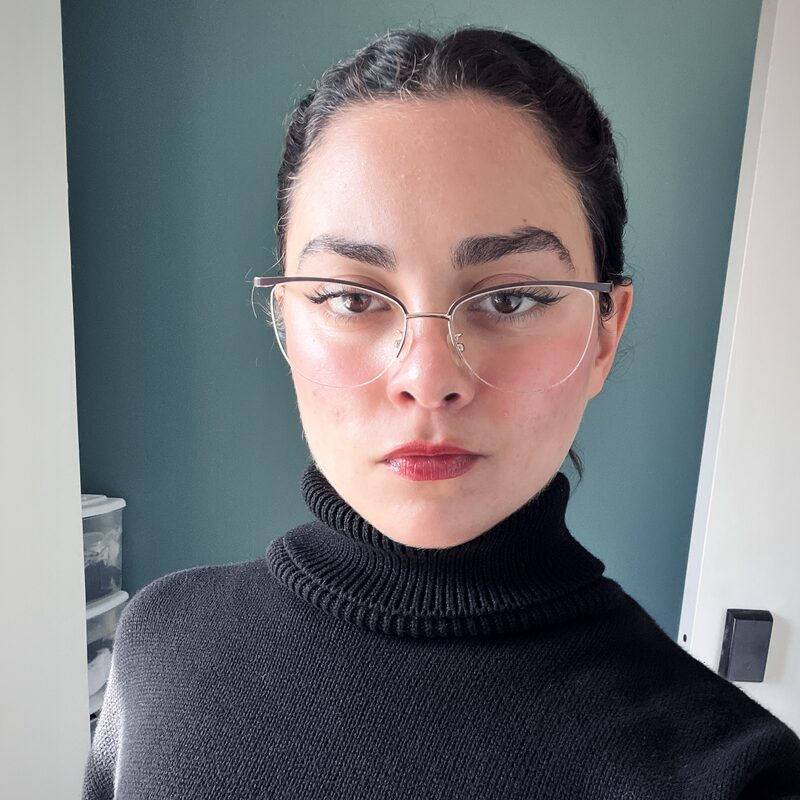
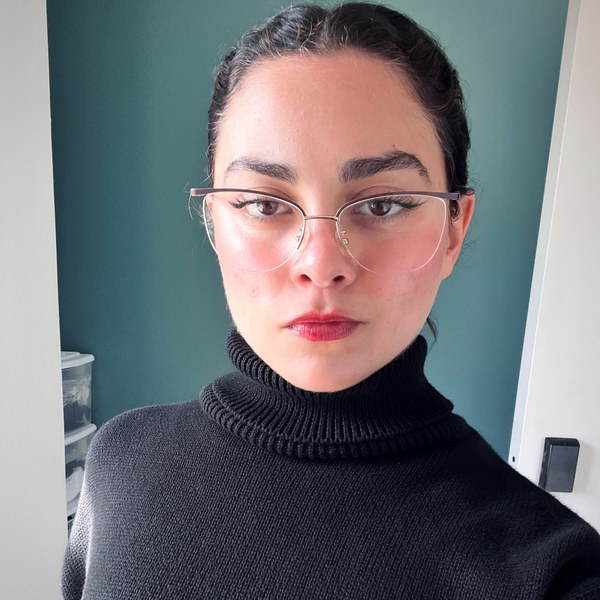
Team: add Nehir, Giovanni and Rose; update Tina's title and photo
Current officers first, then former officers.

Claude-Session: https://claude.ai/code/session_01Yao5ARWiRXxrscf2joiVWF

diff --git a/src/content/team.js b/src/content/team.js
@@ -6,10 +6,14 @@
 //              reference it here; leave null for the placeholder avatar
 //   linkedin : profile URL, or null to hide the link
 import aidenFox from '../assets/team/aiden-fox.jpg';
+import giovanniSuarez from '../assets/team/giovanni-suarez.jpg';
+import nehirKeskin from '../assets/team/nehir-keskin.jpg';
 import peterMaiConnolly from '../assets/team/peter-mai-connolly.jpg';
+import roseSifuentes from '../assets/team/rose-sifuentes.jpg';
 import sandraAlHames from '../assets/team/sandra-al-hames.jpg';
 import tinaHabibi from '../assets/team/tina-habibi.jpg';
 
+// Current officers first, then former officers.
 const team = [
   {
     name: 'Sandra Al Hames',
@@ -18,16 +22,22 @@ const team = [
     linkedin: 'https://www.linkedin.com/in/sandra-al-hames/',
   },
   {
+    name: 'Nehir Keskin',
+    role: 'Vice President',
+    photo: nehirKeskin,
+    linkedin: 'https://www.linkedin.com/in/nehirkeskin/',
+  },
+  {
+    name: 'Tina Habibi',
+    role: 'Qompute 2026 Co-Organizer',
+    photo: tinaHabibi,
+    linkedin: 'https://www.linkedin.com/in/tina-habibi/',
+  },
+  {
     name: 'Aiden Fox',
     role: 'E-Board Member',
     photo: aidenFox,
     linkedin: 'https://www.linkedin.com/in/aidenfox',
-  },
-  {
-    name: 'Tina Habibi',
-    role: 'E-Board Member',
-    photo: tinaHabibi,
-    linkedin: 'https://www.linkedin.com/in/tina-habibi',
   },
   {
     name: 'Peter Mai Connolly',
@@ -37,6 +47,18 @@ const team = [
   },
   {
     name: null, role: 'E-Board Member', photo: null, linkedin: null,
+  },
+  {
+    name: 'Giovanni Suarez',
+    role: 'Former Vice President',
+    photo: giovanniSuarez,
+    linkedin: 'https://www.linkedin.com/in/gio-suarez-usc/',
+  },
+  {
+    name: 'Rose Sifuentes',
+    role: 'Former Secretary',
+    photo: roseSifuentes,
+    linkedin: null,
   },
 ];
 
